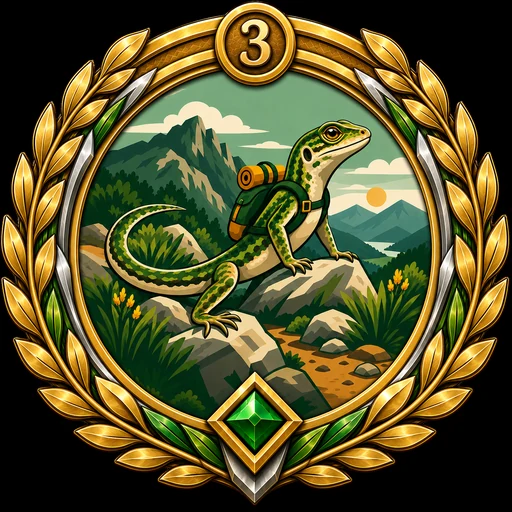
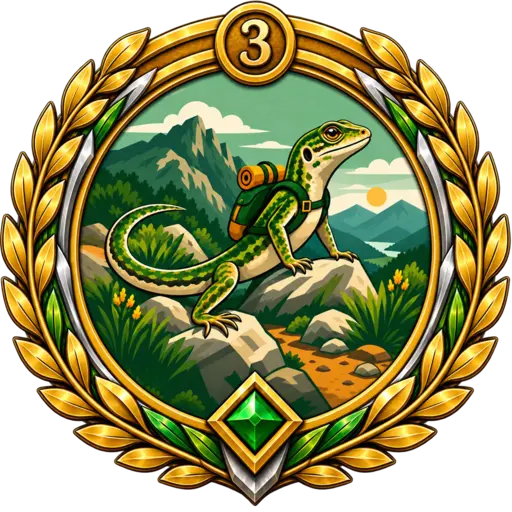
Eliminar fondos negros de las insignias

diff --git a/app/badge-transparency.css b/app/badge-transparency.css
@@ -1,0 +1,8 @@
+.badgeRoadmap button,.badgeRoadmap .unlocked{background:transparent;border-color:transparent;box-shadow:none}
+.badgeRoadmap img{background:transparent;filter:drop-shadow(0 9px 8px rgba(0,0,0,.38)) drop-shadow(0 0 9px rgba(239,205,105,.22));animation:badgeRoadmapFloat 3.4s ease-in-out infinite;will-change:transform}
+.badgeRoadmap button:nth-child(3n+2) img{animation-delay:-1.1s}
+.badgeRoadmap button:nth-child(3n) img{animation-delay:-2.2s}
+.badgeRoadmap .locked img{filter:grayscale(1) drop-shadow(0 7px 7px rgba(0,0,0,.28));opacity:.3}
+.badgeFloat,.badgeFloat img,.mountainProgressHero>img,.levelBadge,.bottomLevelBadge img,.heroAvatar.badgeAvatar img{background:transparent}
+@keyframes badgeRoadmapFloat{0%,100%{transform:translateY(3px) rotate(-.7deg)}50%{transform:translateY(-5px) rotate(.7deg)}}
+@media(prefers-reduced-motion:reduce){.badgeRoadmap img{animation:none}}

diff --git a/app/ExperienceAccreditation.js b/app/ExperienceAccreditation.js
@@ -4,6 +4,7 @@ import { useEffect, useState } from 'react';
 import { supabase } from '../lib/supabase';
 import './experience-accreditation.css';
 import './progression-badges.css';
+import './badge-transparency.css';
 import './verified-progression.css';
 import { PROGRESSION, progressionFor } from '../lib/progressionBadges';
 
